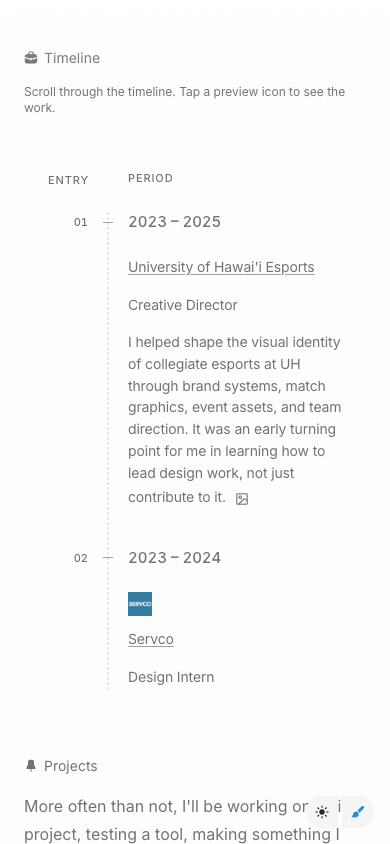
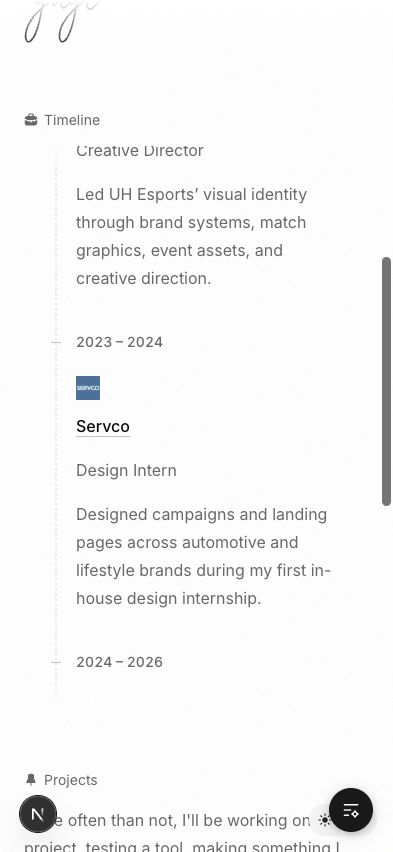
Fade the mobile timeline rail at its scroll boundaries

diff --git a/styles/lifeline.css b/styles/lifeline.css
@@ -56,6 +56,31 @@
   font-family: inherit;
 }
 
+/* Keep text opaque; only the rail's narrow column fades at the scrollport edges. */
+.lifeline-mobile-rail-fade {
+  --lifeline-rail-fade-mask:
+    linear-gradient(
+      to right,
+      #000 calc(var(--lifeline-mobile-rail-x) - 0.5rem),
+      transparent calc(var(--lifeline-mobile-rail-x) - 0.5rem),
+      transparent calc(var(--lifeline-mobile-rail-x) + 0.5rem),
+      #000 calc(var(--lifeline-mobile-rail-x) + 0.5rem)
+    ),
+    linear-gradient(
+      to bottom,
+      transparent,
+      #000 1.5rem,
+      #000 calc(100% - 1.5rem),
+      transparent
+    );
+  -webkit-mask-image: var(--lifeline-rail-fade-mask);
+  mask-image: var(--lifeline-rail-fade-mask);
+  -webkit-mask-composite: source-over;
+  mask-composite: add;
+  -webkit-mask-repeat: no-repeat;
+  mask-repeat: no-repeat;
+}
+
 @media (prefers-reduced-motion: reduce) {
   .lifeline-typeset *,
   .lifeline-typeset *::before,

diff --git a/components/lifeline/lifeline.tsx b/components/lifeline/lifeline.tsx
@@ -1,6 +1,6 @@
 "use client"
 
-import { useLayoutEffect, useState } from "react"
+import { useLayoutEffect, useState, type CSSProperties } from "react"
 import { cn } from "@/lib/utils"
 import { LifelineDesktop } from "./lifeline-desktop"
 import { LifelineFireworksProvider } from "./lifeline-fireworks"
@@ -43,11 +43,14 @@ export function Lifeline(props: LifelineProps) {
           className={
             props.mode === "embed"
               ? cn(
-                  "lifeline-typeset h-full overflow-y-auto pt-5",
+                  "lifeline-typeset lifeline-mobile-rail-fade h-full overflow-y-auto pt-5",
                   props.className,
                 )
               : "lifeline-typeset pt-5"
           }
+          style={{
+            "--lifeline-mobile-rail-x": props.showSecondaryAxis === false ? "2rem" : "5.25rem",
+          } as CSSProperties}
         >
           <LifelineVertical {...props} />
         </div>

diff --git a/app/globals.css b/app/globals.css
@@ -1,5 +1,6 @@
 @import 'tailwindcss';
 @import 'tw-animate-css';
+/* Shared timeline typography, motion, and rail fades. */
 @import '../styles/lifeline.css';
 
 @custom-variant dark (&:is(.dark *));
